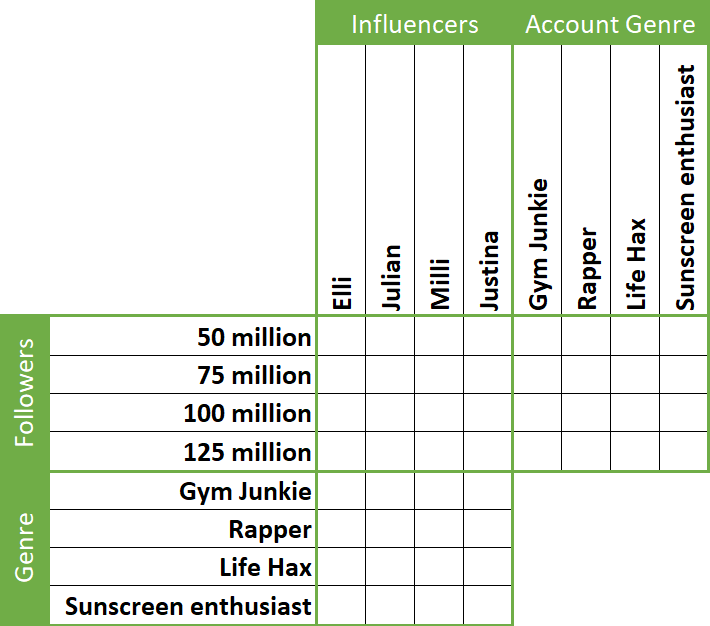
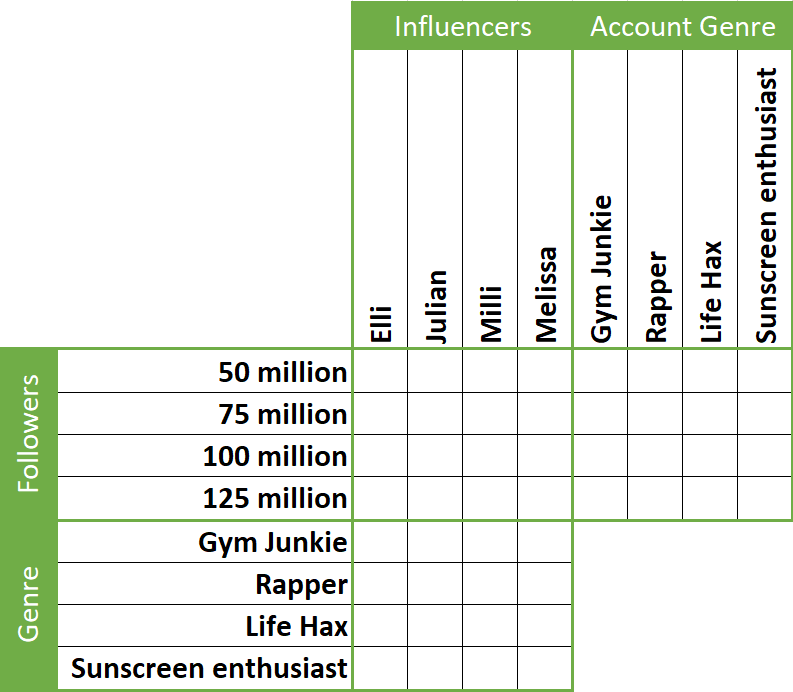
Changed Question people

diff --git a/questions/Q30/Q30_ONEBOREDJEUMASHUP.html b/questions/Q30/Q30_ONEBOREDJEUMASHUP.html
@@ -53,11 +53,11 @@ body,h1,h2,h3,h4,h5,h6 {font-family: "Lato", sans-serif}
         caught up each week by how epic they are. But today's the day that we uncover their secrets! With a few clues that I have I think we can pinpoint exactly how popular each one of our leaders are and what type of account they run!<br><br>
         Here are the clues:
         <ol class="w3-text-grey">
-          <li>Julian has 25 million more followers than Justina</li>
+          <li>Julian has 25 million more followers than Melissa</li>
           <li>The Sunscreen enthusiast has 50m followers</li>
           <li>Milli has flow like no other, i.e. she's the rapper</li>
           <li>The Life Hax account has 50m more followers than the Sunscreen Enthusiast</li>
-          <li>The account with 75m followers is either Justina's account or the Gym Junkie's</li>
+          <li>The account with 75m followers is either Melissa's account or the Gym Junkie's</li>
           <li>Elli has 100m followers</li>
         </ol>
         Tip: Screenshare and work on the code together!
